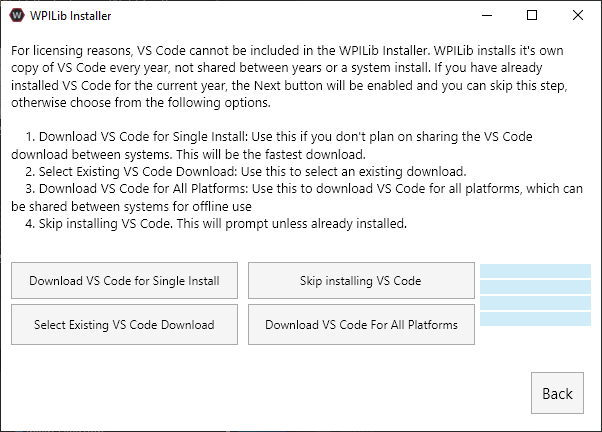
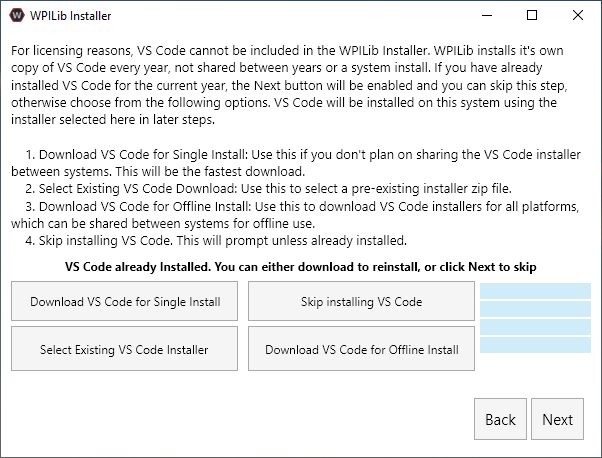
Update install text to "Download VS Code for Offline Install"

diff --git a/source/docs/zero-to-robot/step-2/wpilib-setup.rst b/source/docs/zero-to-robot/step-2/wpilib-setup.rst
@@ -64,9 +64,9 @@ This next screen involves downloading VS Code. Unfortunately, due to licensing r
 
   - Selecting this option will bring up a prompt allowing you to select a pre-existing zip file of VS Code that has been downloaded by the installer previously. This option does **not** let you select an already installed copy of VS Code on your machine.
 
-- Download VS Code for All Platforms
+- Download VS Code for Offline Installs
 
-  - This option downloads VS Code for all platforms, which is useful for sharing the copy of the installer.
+  - This option downloads and saves a copy of VS Code for all platforms, which is useful for sharing the copy of the installer.
 
 Go ahead and select :guilabel:`Download VS Code for Single Install`. This will begin the download process and can take a bit depending on internet connectivity (it's ~60MB). Once the download is done, select :guilabel:`Next`. You should be presented with a screen that looks similar to the one below.
 
